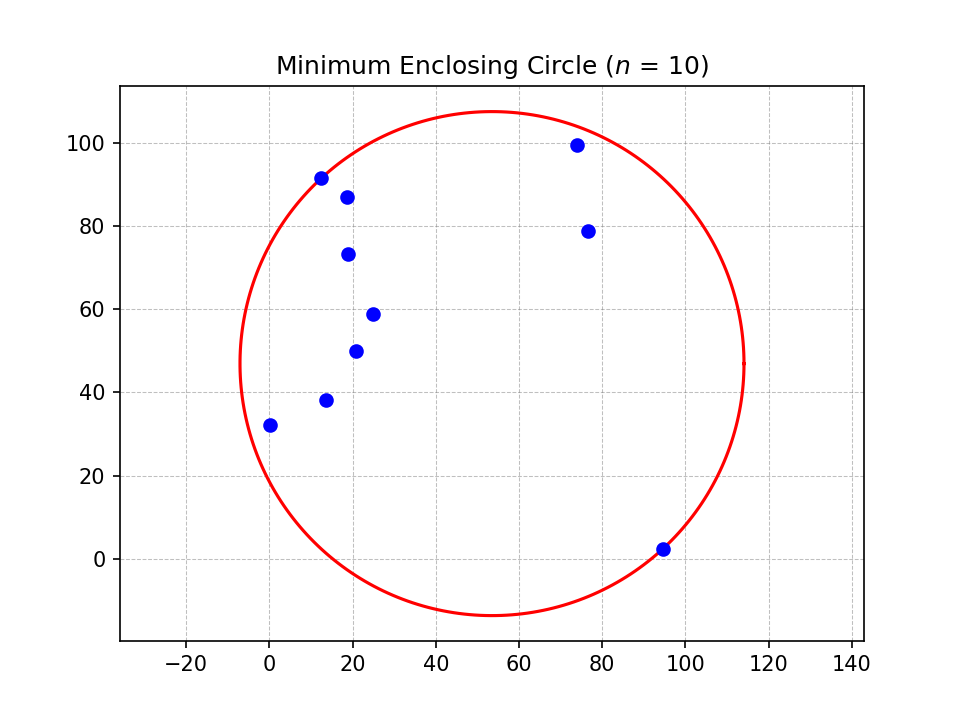
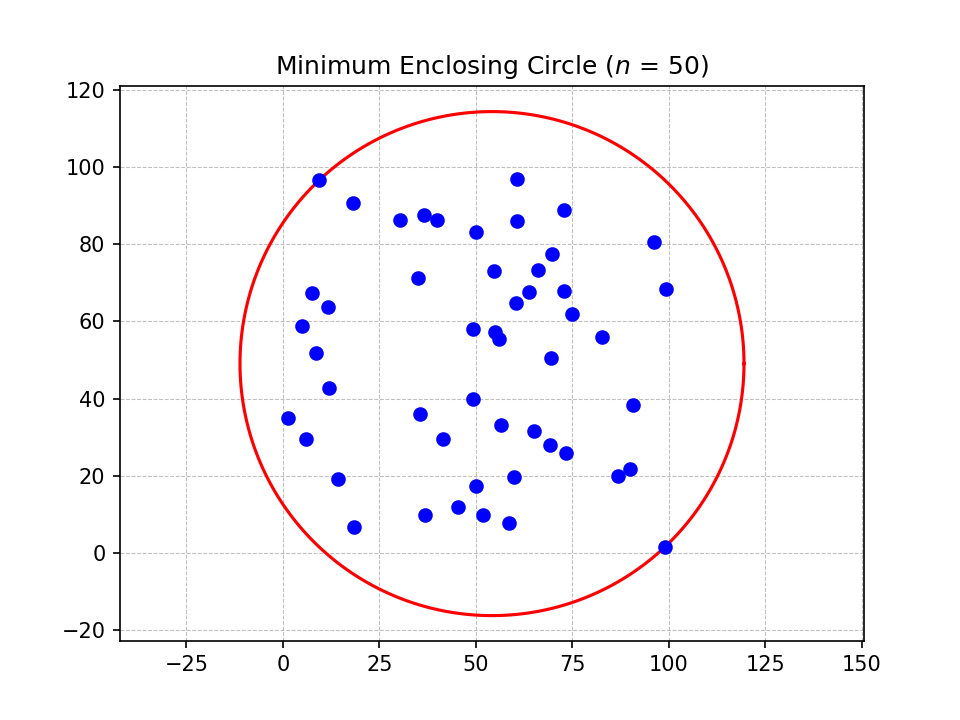
Need more points

diff --git a/main.py b/main.py
@@ -35,7 +35,7 @@ def min_circle(P):
 def main():
     
     # Randomly generated points
-    points = [(random.uniform(0, 100), random.uniform(0, 100)) for _ in range(10)]
+    points = [(random.uniform(0, 100), random.uniform(0, 100)) for _ in range(50)]
     
     C = min_circle(points)
     